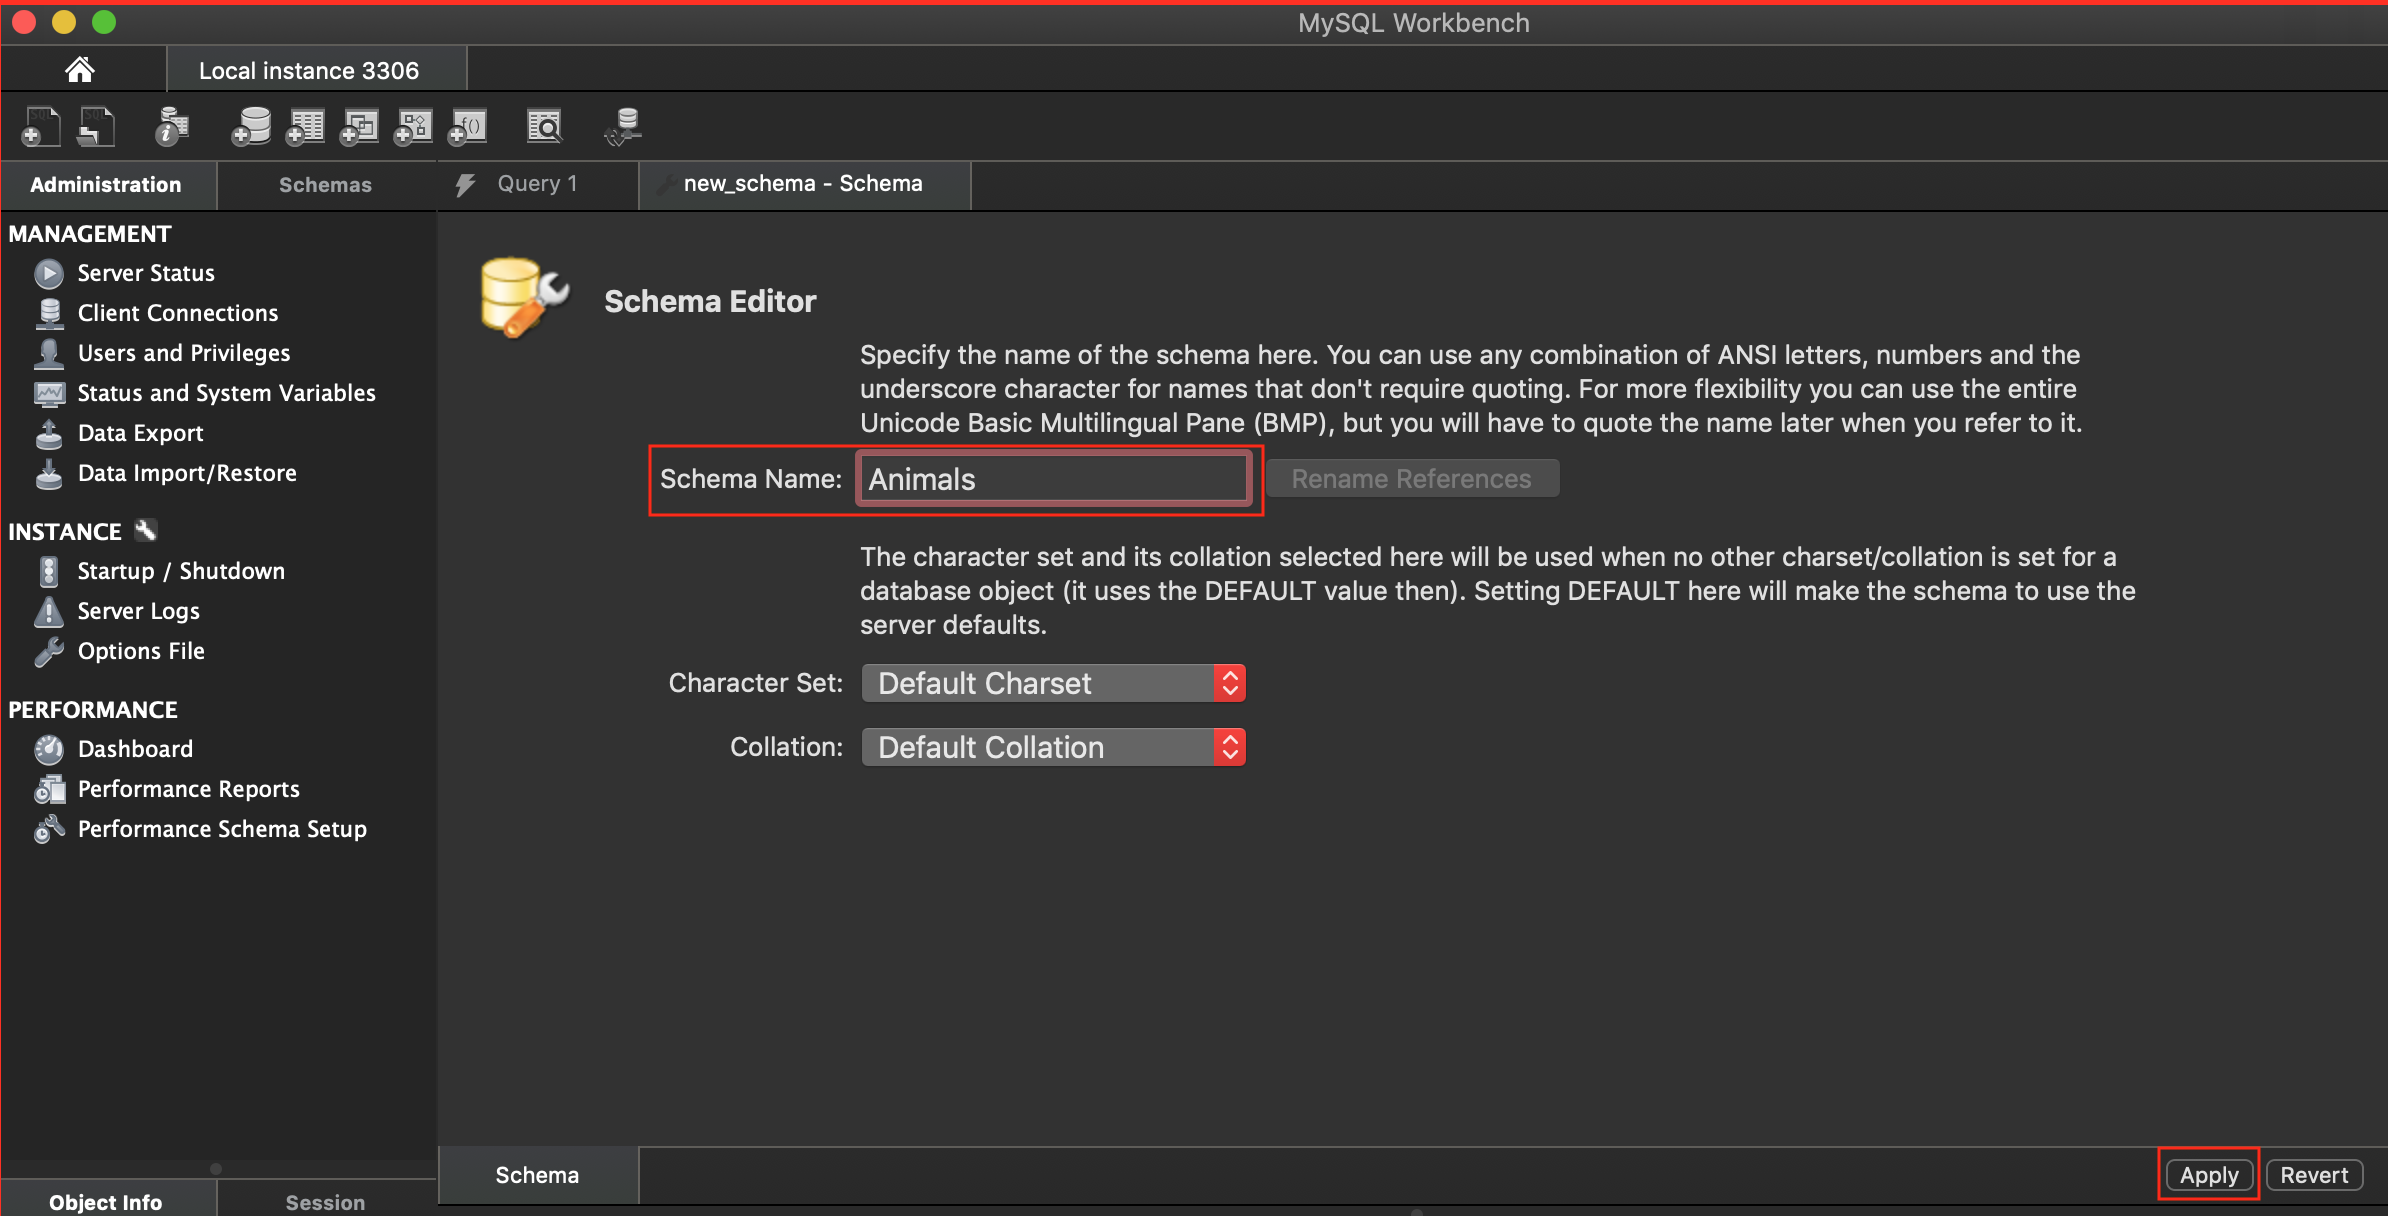
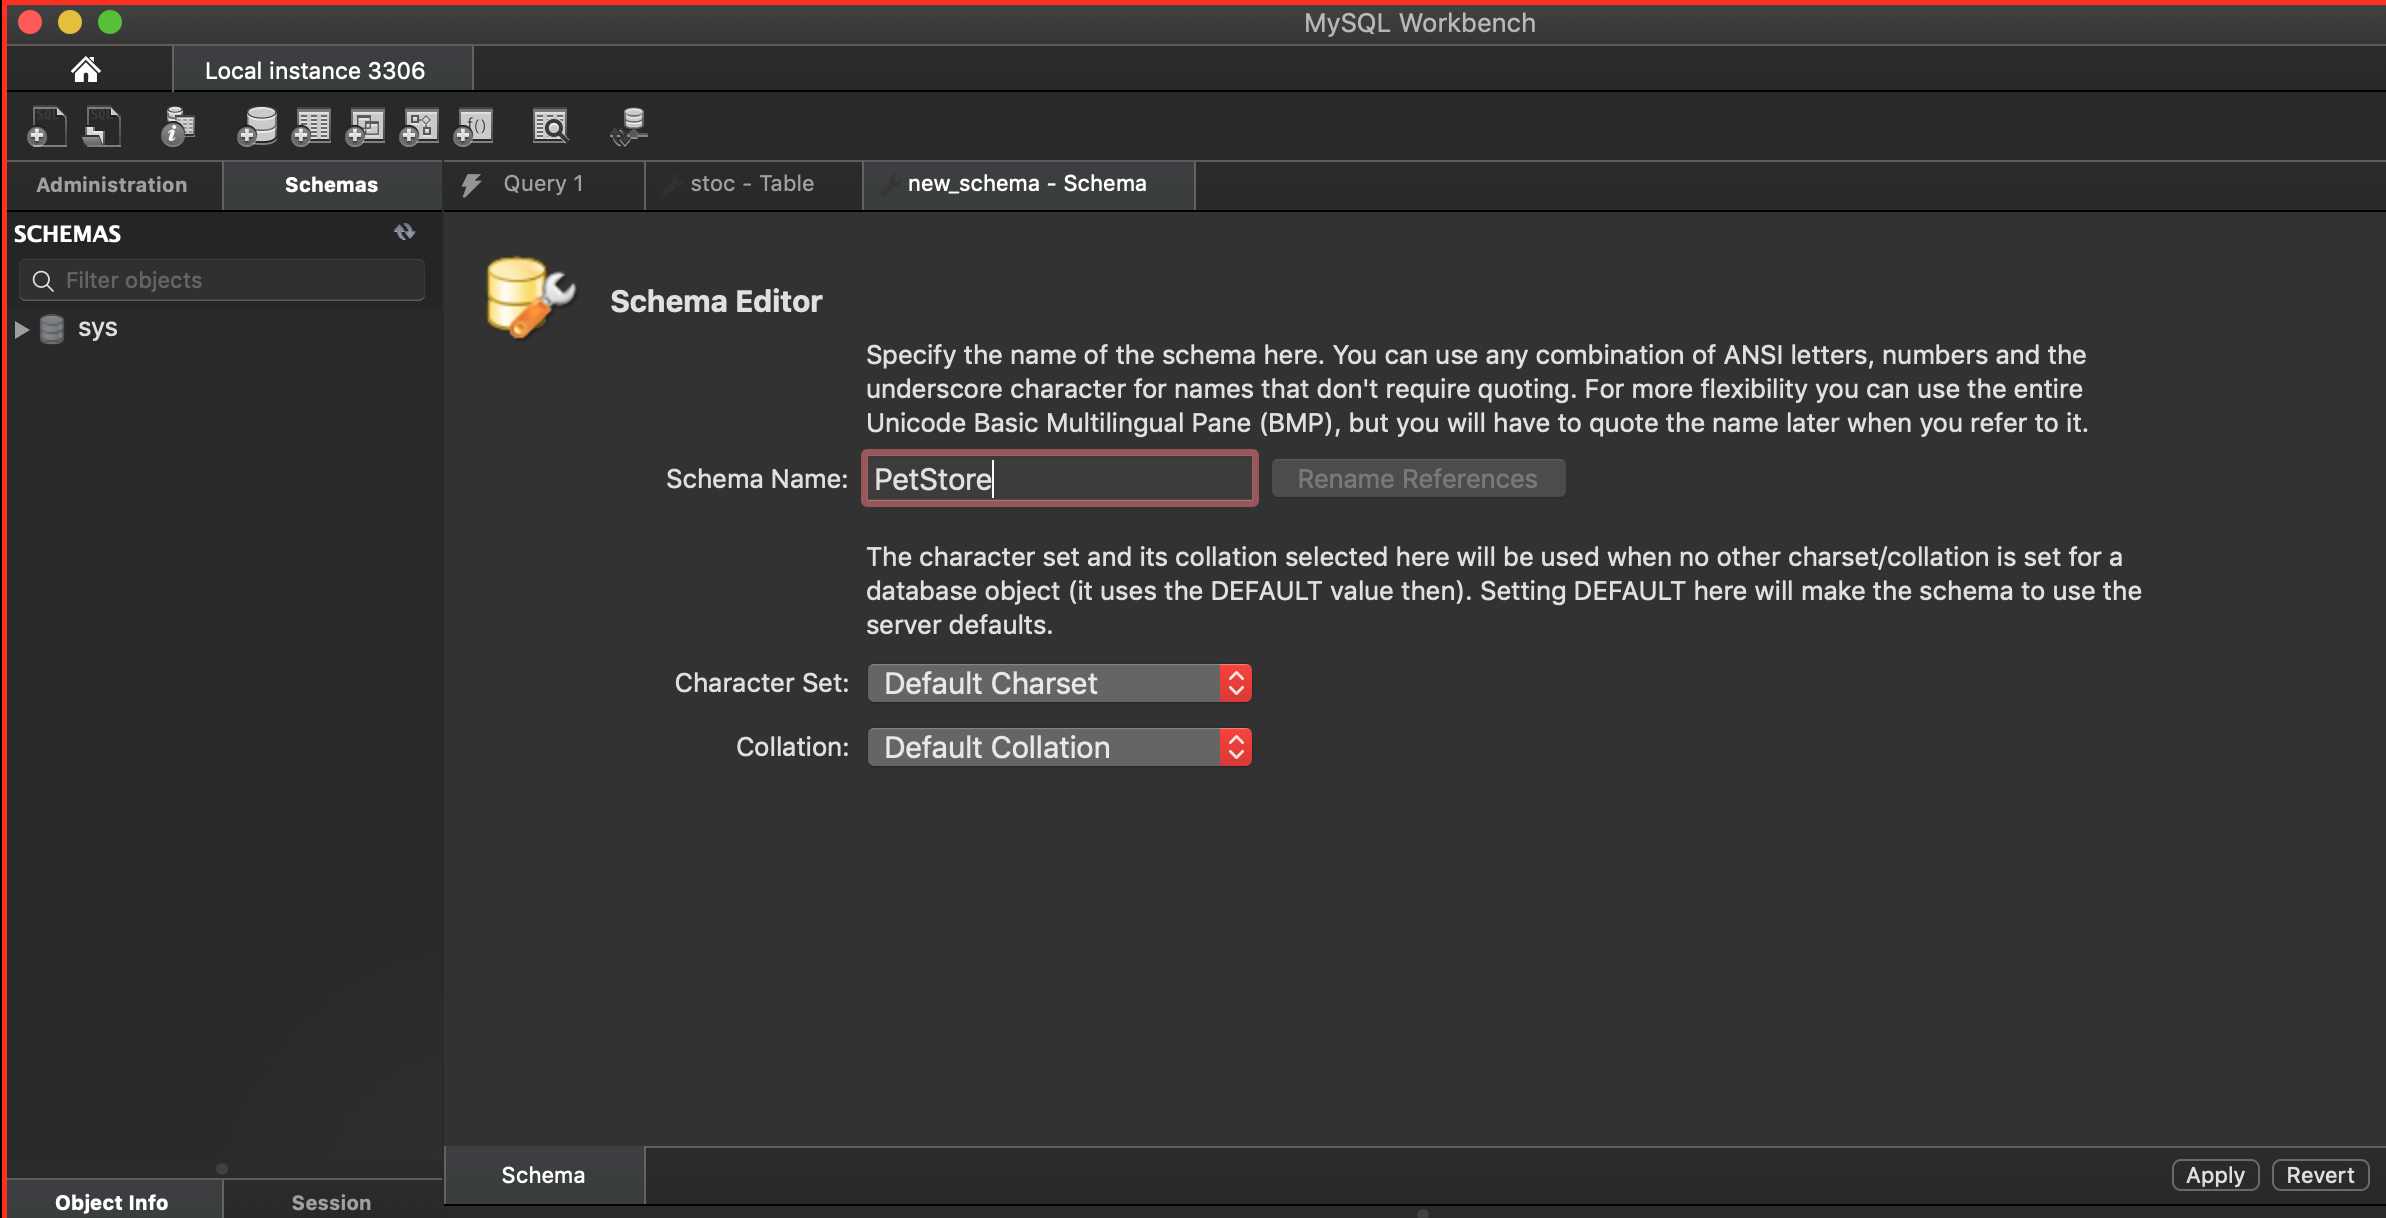
Change name of db to PetStore

diff --git a/mysql/first_exercises/index.md b/mysql/first_exercises/index.md
@@ -43,7 +43,7 @@ To create our first database, start by clicking the "Create a new schema in the 
 ![]({{ site.url }}/mysql/first_exercises/images/new_schema.png)
 
 
-Fill in a name for our new database, then click the small "apply"-button. I call my database "Animals":
+Fill in a name for our new database, then click the small "apply"-button. I call my database "PetStore":
 
 ![]({{ site.url }}/mysql/first_exercises/images/new_schema_1.png)
 
@@ -53,12 +53,17 @@ Click Apply to execute the query.
 ![]({{ site.url }}/mysql/first_exercises/images/new_schema_2.png)
 
 
-Now click the "Schemas"-tab. You should be able to see our newly created database, Animals!
+Now click the "Schemas"-tab. You should be able to see our newly created database, PetStore!
 
 ![]({{ site.url }}/mysql/first_exercises/images/new_schema_3.png)
 
 
 We can not do much with just a database. We need tables, in order to store data.
+
+
+# Creating a table in our database
+
+
 
 
 
